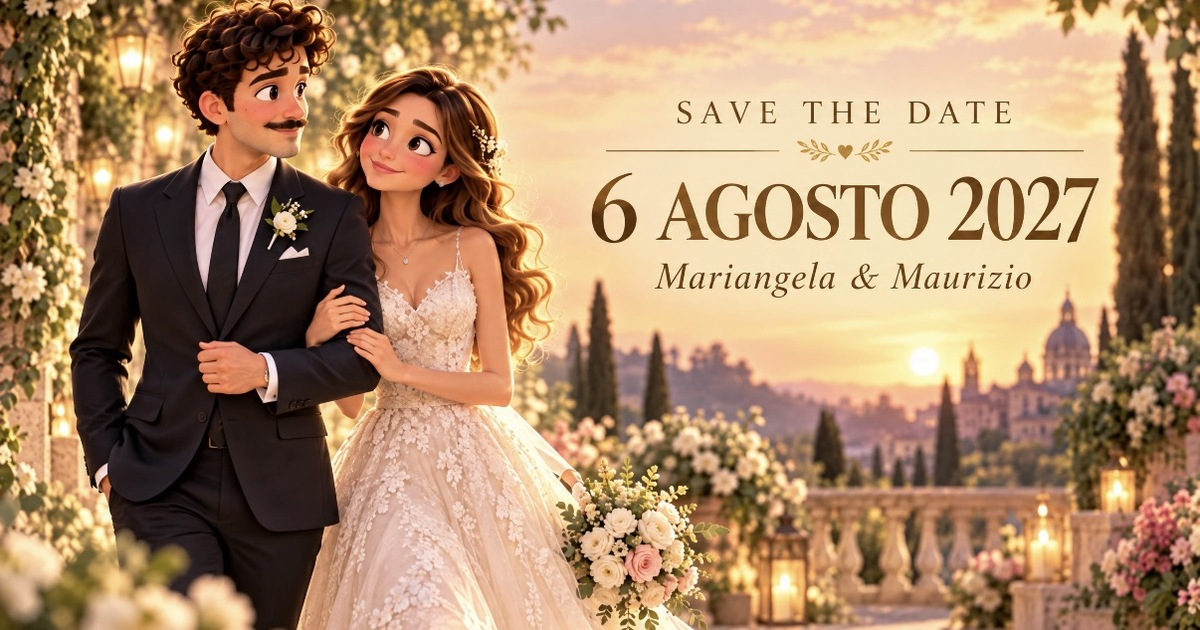
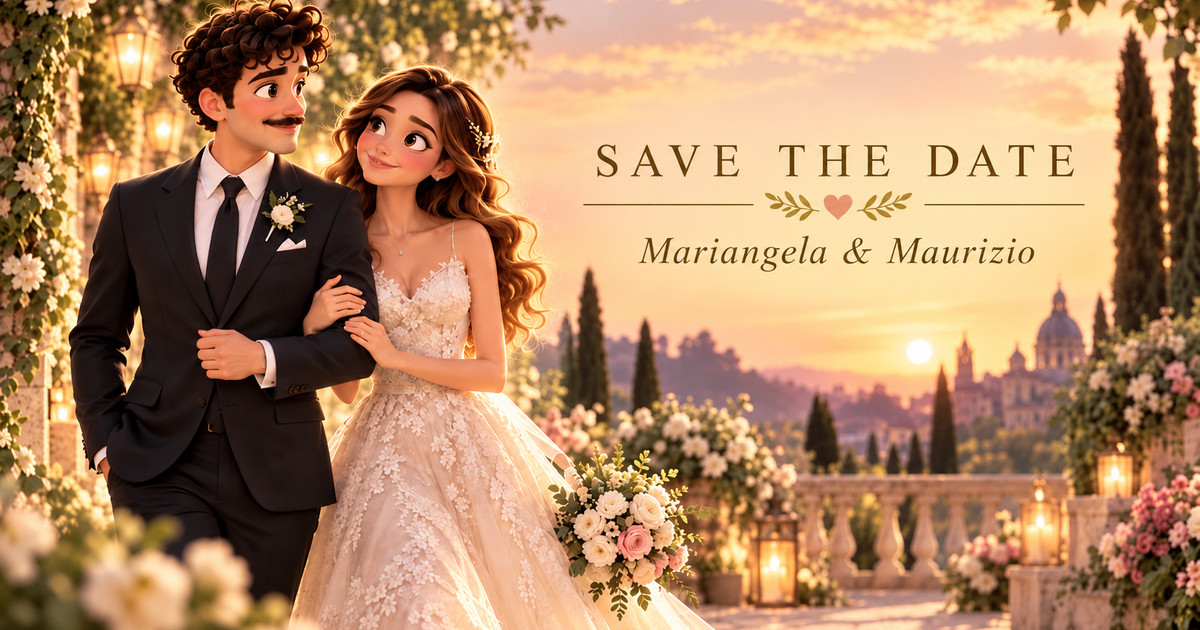
Add files via upload

diff --git a/save-the-date.html b/save-the-date.html
@@ -5,22 +5,23 @@
 <meta name="viewport" content="width=device-width,initial-scale=1,viewport-fit=cover">
 <meta name="theme-color" content="#f9f1ec">
 <meta name="robots" content="noindex,nofollow">
-<title>Mariangela & Maurizio · Save the Date · 06.08.2027</title>
-<meta name="description" content="Clicca sul link per guardare il nostro Save the Date animato! Il 6 agosto 2027 ci sposiamo. L’invito ufficiale arriverà prossimamente!">
+<title>Mariangela &amp; Maurizio | Save the Date</title>
+<meta name="description" content="🎬 Clicca sul link per guardare il nostro Save the Date animato e scoprire la nostra data speciale! 💌 L’invito ufficiale arriverà prossimamente.">
 <link rel="canonical" href="https://mariangelaemaurizio.it/save-the-date.html">
 <meta property="og:type" content="website">
 <meta property="og:locale" content="it_IT">
 <meta property="og:site_name" content="Mariangela & Maurizio">
 <meta property="og:title" content="💍 Mariangela &amp; Maurizio | Save the Date">
-<meta property="og:description" content="🎬 Clicca sul link per guardare il nostro Save the Date animato! Il 6 agosto 2027 ci sposiamo! ❤ Segna la data e preparati a festeggiare con noi. 💌 L’invito ufficiale arriverà prossimamente!">
+<meta property="og:description" content="🎬 Clicca sul link per guardare il nostro Save the Date animato e scoprire la nostra data speciale! ❤ Una piccola sorpresa vi aspetta. 💌 L’invito ufficiale arriverà prossimamente!">
 <meta property="og:url" content="https://mariangelaemaurizio.it/save-the-date.html">
-<meta property="og:image" content="https://mariangelaemaurizio.it/save-the-date-whatsapp.jpg?v=5">
+<meta property="og:image" content="https://mariangelaemaurizio.it/save-the-date-whatsapp.jpg?v=7">
 <meta property="og:image:width" content="1200">
 <meta property="og:image:height" content="630">
-<meta property="og:image:alt" content="Save the Date Mariangela e Maurizio, 6 agosto 2027">
+<meta property="og:image:alt" content="Mariangela e Maurizio: Save the Date, scopri la data nel video">
 <meta name="twitter:card" content="summary_large_image">
 <meta name="twitter:title" content="💍 Mariangela &amp; Maurizio | Save the Date">
-<meta name="twitter:image" content="https://mariangelaemaurizio.it/save-the-date-whatsapp.jpg?v=5">
+<meta name="twitter:image" content="https://mariangelaemaurizio.it/save-the-date-whatsapp.jpg?v=7">
+<meta name="twitter:description" content="🎬 Guarda il nostro Save the Date animato e scopri la data speciale! L’invito ufficiale arriverà prossimamente.">
 <link rel="preconnect" href="https://fonts.googleapis.com">
 <link rel="preconnect" href="https://fonts.gstatic.com" crossorigin>
 <link href="https://fonts.googleapis.com/css2?family=Italiana&family=Manrope:wght@400;500;600;700&display=swap" rel="stylesheet">
@@ -49,11 +50,11 @@ main{padding-top:clamp(22px,4vw,48px)}.line{margin:13px auto}.kicker{margin:14px
 
 <section class="film-wrap" aria-label="Video Save the Date">
  <div class="film" id="film">
-  <video id="video" controls playsinline webkit-playsinline preload="metadata" poster="save-the-date-cover.jpg?v=2" aria-label="Il nostro Save the Date di 40 secondi">
+  <video id="video" controls playsinline webkit-playsinline preload="metadata" poster="save-the-date-cover.jpg?v=7" aria-label="Il nostro Save the Date di 40 secondi">
    <source src="save-the-date.mp4" type="video/mp4">
    Il tuo browser non supporta la riproduzione video. <a href="save-the-date.mp4">Apri il video MP4</a>.
   </video>
-  <div class="poster" id="poster"><img src="save-the-date-cover.jpg?v=2" alt="Mariangela e Maurizio, Save the Date" loading="eager"></div>
+  <div class="poster" id="poster"><img src="save-the-date-cover.jpg?v=7" alt="Mariangela e Maurizio, Save the Date" loading="eager"></div>
   <button class="play" id="play" type="button" aria-label="Riproduci il Save the Date con audio">
    <span class="play-circle"><svg viewBox="0 0 24 24" fill="currentColor" aria-hidden="true"><path d="M7 3.9c0-.8.9-1.3 1.6-.9l12 7.9a1.3 1.3 0 0 1 0 2.2l-12 7.9c-.7.4-1.6-.1-1.6-.9V3.9z"/></svg></span>
    <span>Guarda il video</span>
